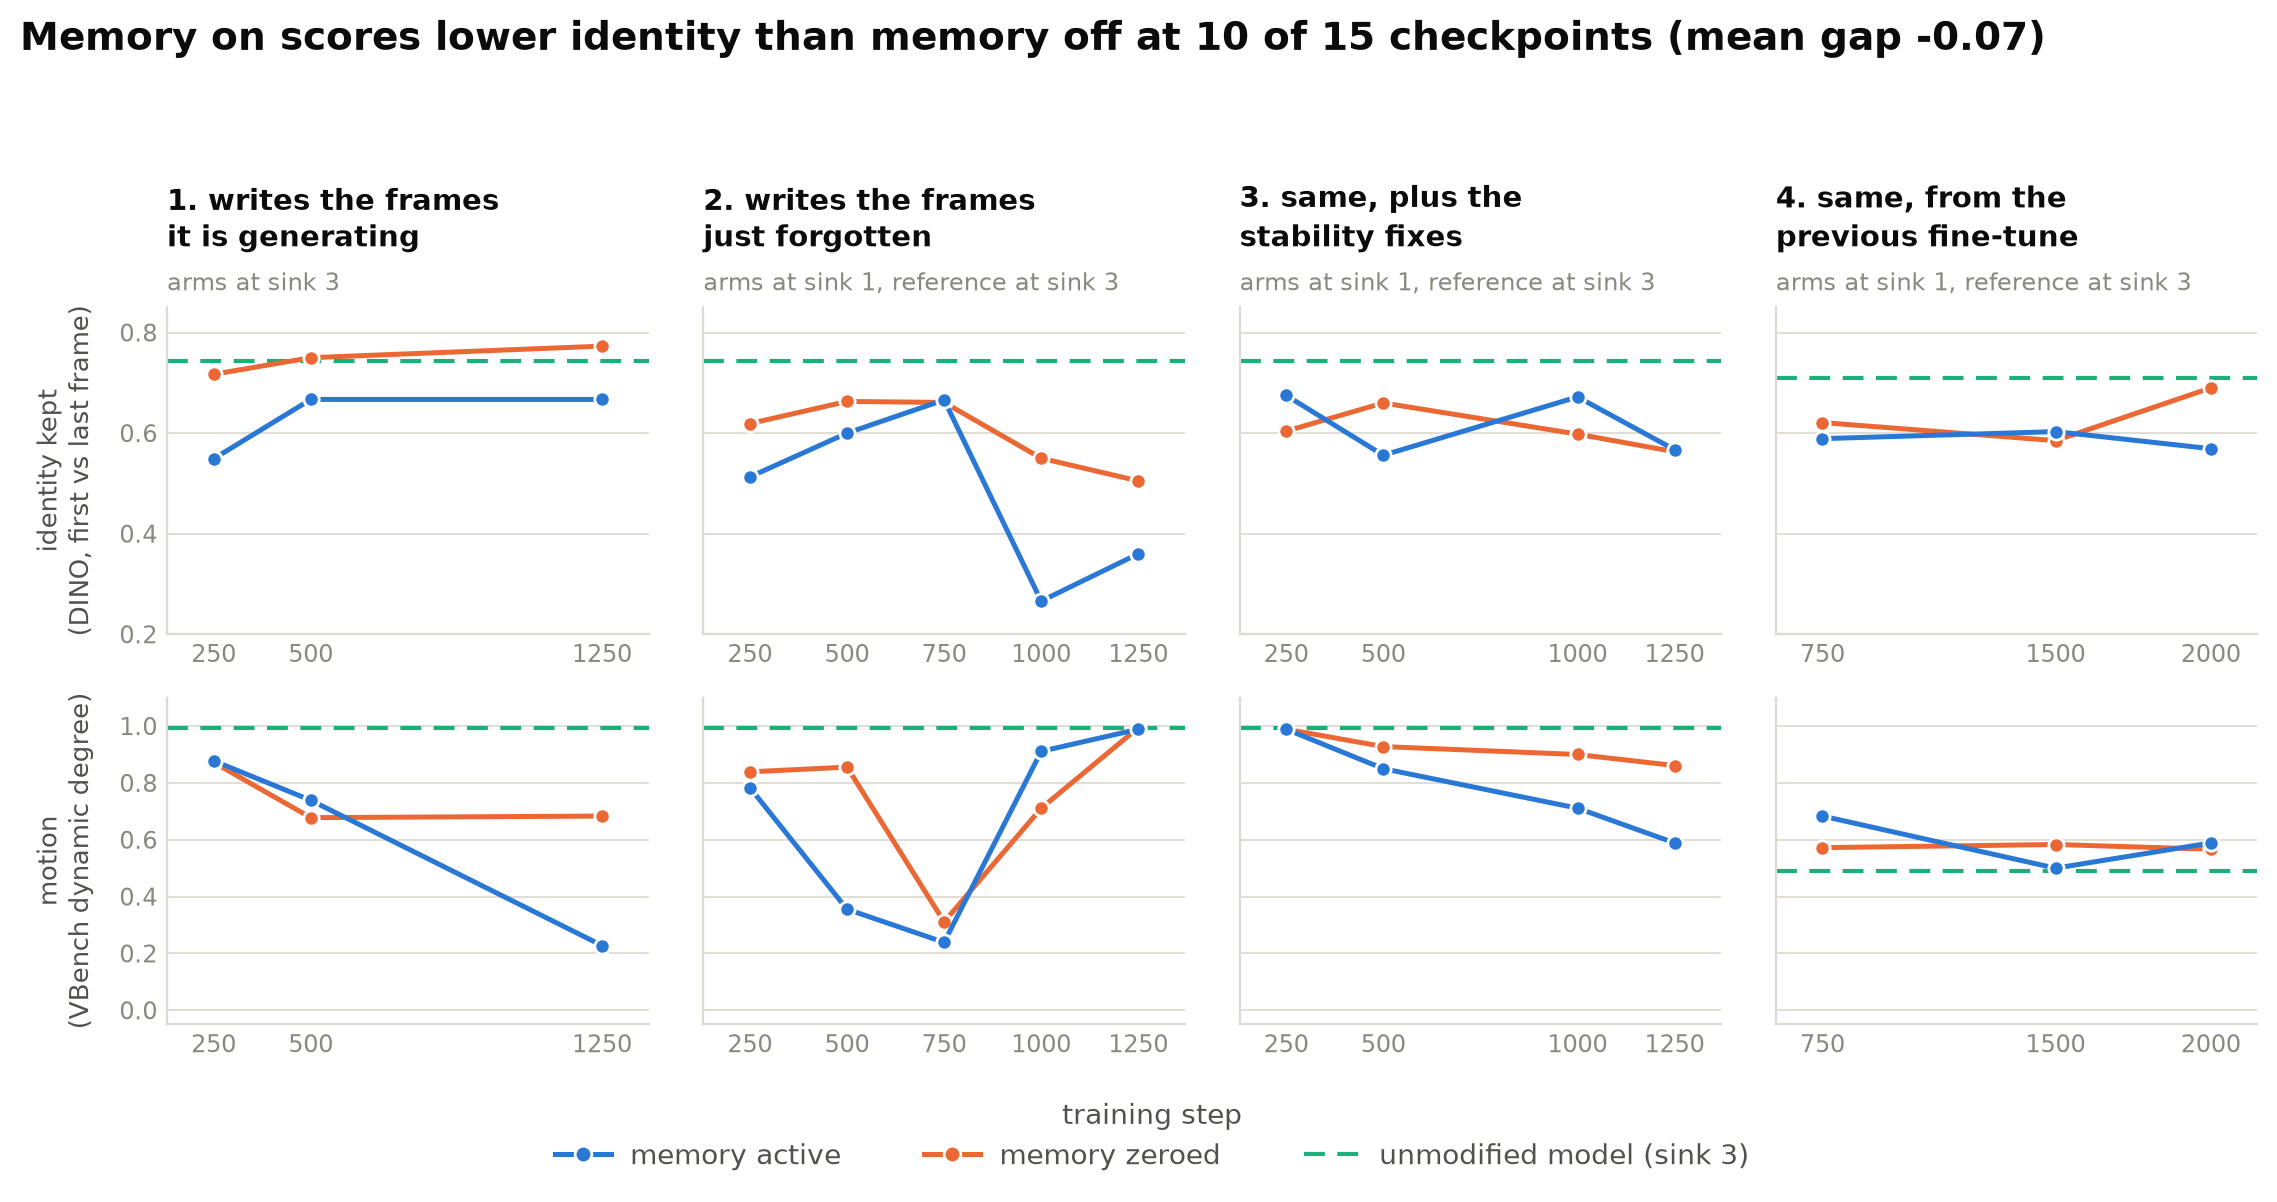
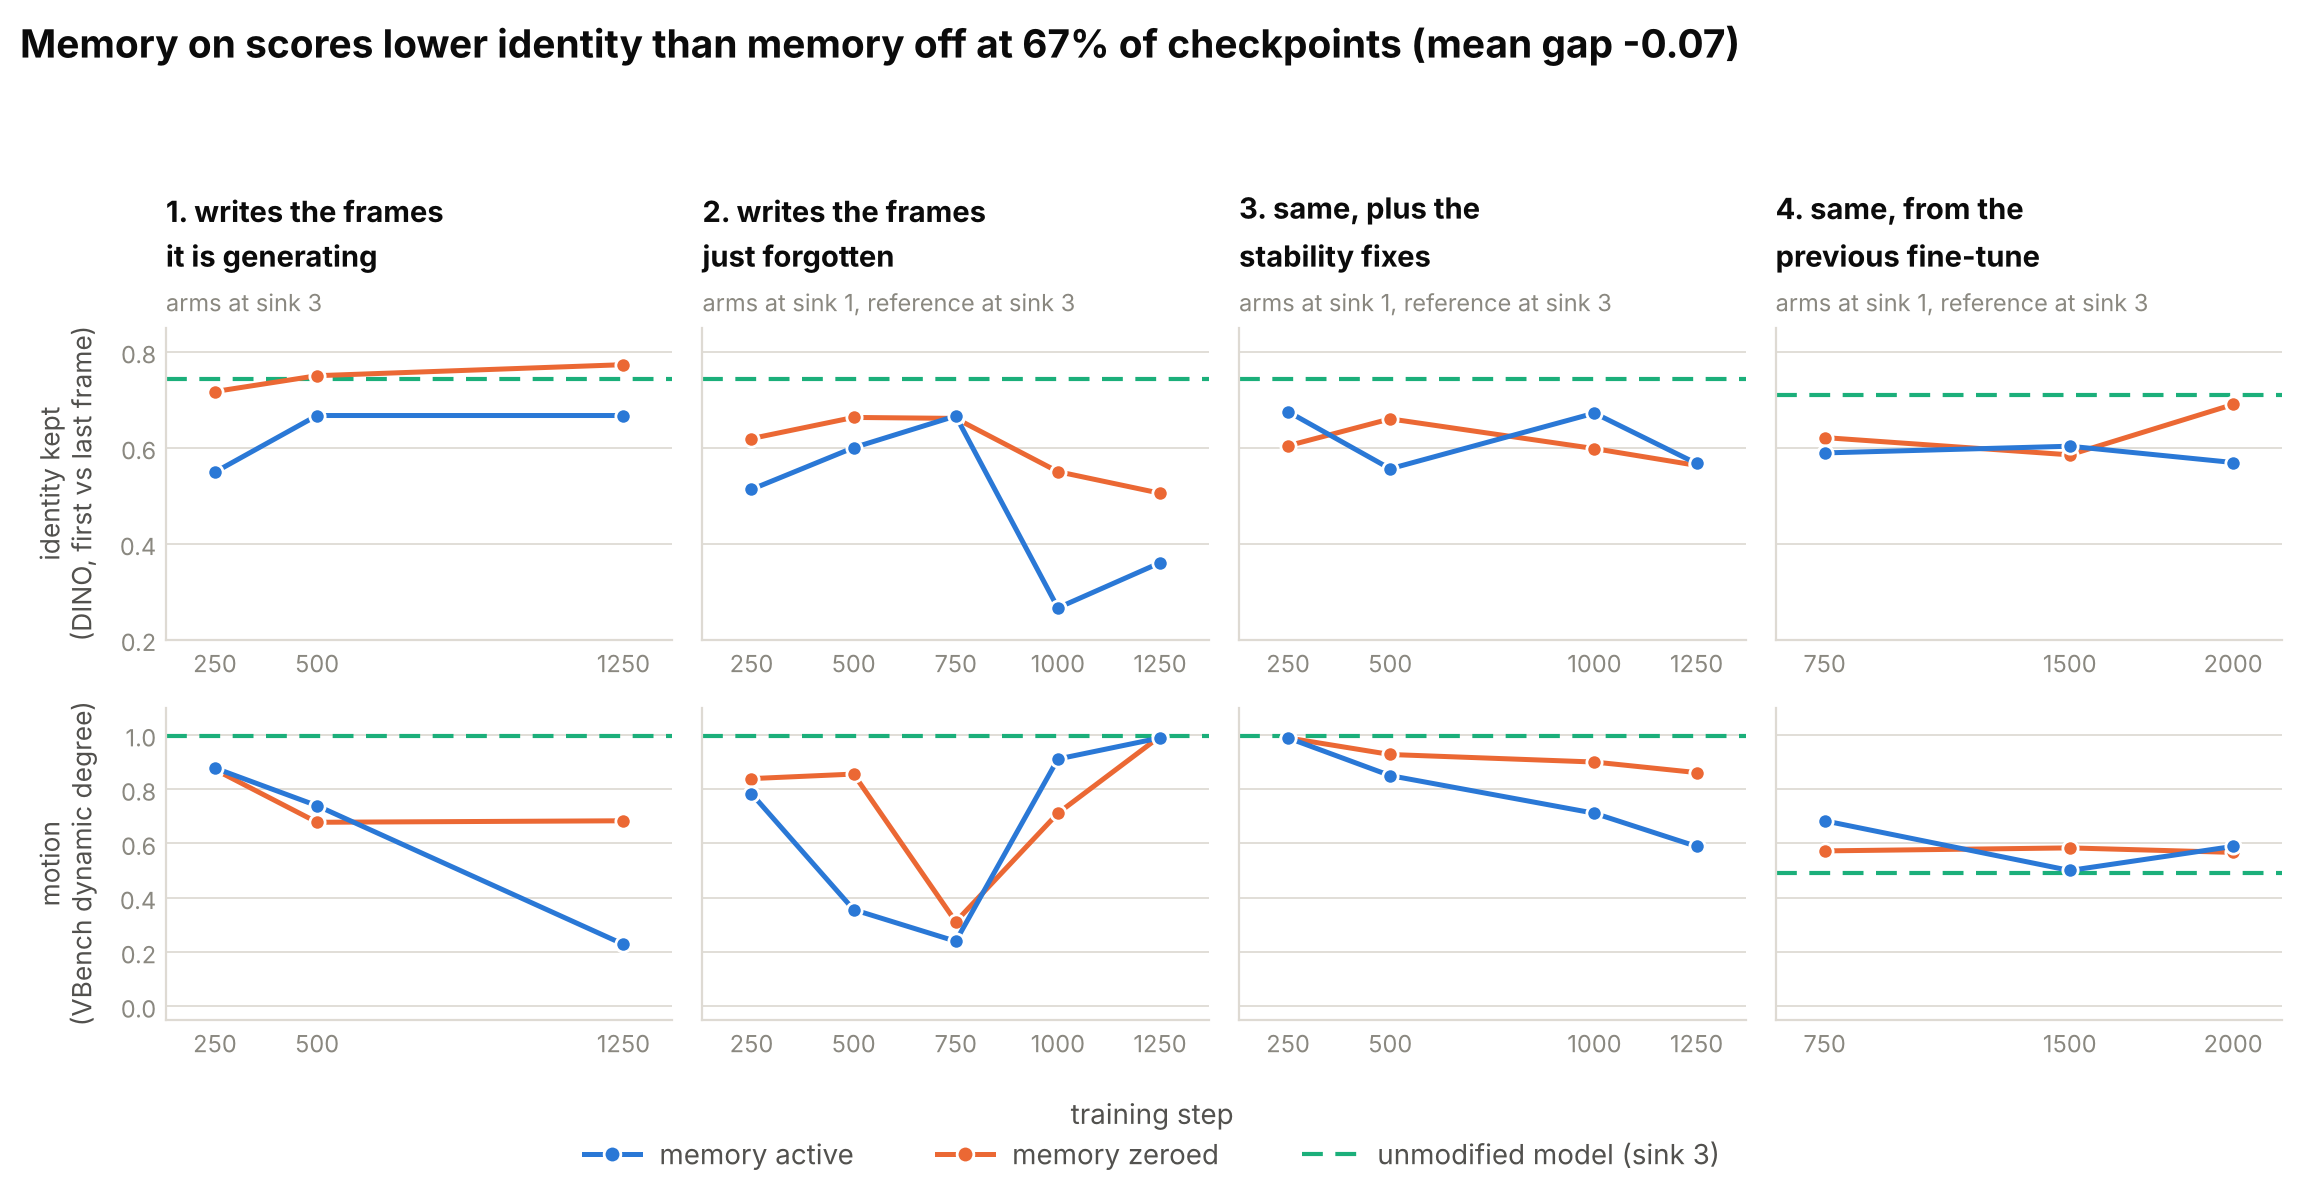
README and figure: shares instead of counts

diff --git a/scripts/make_figure.py b/scripts/make_figure.py
@@ -126,8 +126,8 @@ def draw(runs, path=os.path.join(ROOT, "assets", "motion_identity.png")):
 
     axes[0][0].set_ylim(0.20, 0.85)
     axes[1][0].set_ylim(-0.05, 1.10)
-    fig.suptitle(f"Memory on scores lower identity than memory off at {n_lower} of {len(gaps)} "
-                 f"checkpoints (mean gap {sum(gaps) / len(gaps):+.2f})",
+    fig.suptitle(f"Memory on scores lower identity than memory off at {n_lower / len(gaps):.0%} "
+                 f"of checkpoints (mean gap {sum(gaps) / len(gaps):+.2f})",
                  fontsize=14, color=INK, fontweight="bold", x=0.012, ha="left", y=0.975)
     fig.text(0.5, 0.055, "training step", fontsize=10, color=INK2, ha="center")
     fig.legend(handles=[

diff --git a/README.md b/README.md
@@ -65,8 +65,8 @@ are plain DMD; the twin is there to be read, not to explain the figure.
 
 ![motion vs identity](assets/motion_identity.png)
 
-- The memory does not help: with it active, identity is lower than with it zeroed at 10 of the
-  15 checkpoints, by 0.07 on average.
+- The memory does not help: with it active, identity is lower than with it zeroed at two thirds of
+  the checkpoints, by 0.07 on average.
 - Training costs motion, memory or not: in runs 1 to 3 both arms fall under the motion reference.
 - One lead is open: a training-free delta write rule reads the subject out of the state where
   the deployed rule does not.
@@ -75,8 +75,8 @@ One column per training run, identity on top, motion below, against the training
 dashed line is that run's own unmodified model. The four share everything except what their
 titles name: same frozen backbone, same LoRA co-training, and the same objective, plain DMD
 distillation with every extra loss term in the codebase weighted zero. Run 4 differs from run 3
-by one line of config, the fine-tune it starts from, which is why its reference sits lower. Six
-prompts per point, one seed, no repeat, so there is no noise estimate. One point per step; EMA
+by one line of config, the fine-tune it starts from, which is why its reference sits lower. No
+measurement was repeated, so there is no noise estimate. One point per step; EMA
 and 480-frame evaluations are left out, and where a step was evaluated at two sink sizes the
 sink-1 measurement is the one drawn.
 
@@ -92,10 +92,9 @@ collapsed to 0.36. In run 1, the one fair comparison to the reference, the only 
 above it on identity is the memory-zeroed one (0.773 against 0.743), with a third fewer clips
 rated dynamic; with the memory active identity is 0.667 and dynamic degree 0.23, a near-frozen
 video. Run 4 keeps more motion than its reference, and the memory still lowers identity there at
-two checkpoints out of three.
+most checkpoints.
 
-The likely reason, for this write rule, this objective and this backbone, which is all that
-was tested: chunk-local DMD and the usual metrics reward the same thing, temporal
+The likely reason, for this write rule, this objective and this backbone: chunk-local DMD and the usual metrics reward the same thing, temporal
 self-similarity, so a learnable memory converges to a freeze or to a constant-bias degeneracy
 that the dashboard scores as healthy. The frozen checkpoints show it: run 1 at step 1250 and
 run 2 at step 750 have a dynamic degree of 0.23 and 0.24, and VBench rates their subject
@@ -107,14 +106,13 @@ of A's first appearance, real or decoded from the memory state. Controls matter 
 taken from a different video helps as much as the right one, which is how the apparent gain
 turned out never to have been content-driven.
 
-The open lead in numbers: median 13.5/19 for the delta rule against 7.0 for the deployed one, over
-10 seeds, with a background control at chance. The score counts, out of 19 video pairs with a
-clearly distinct subject, how many the state tells apart in a two-way choice, so chance is 9.5; it
-is read offline from replayed states (`write_only` and `replay_writes` in
-`wan/modules/video_memory.py` are that replay's interface). The two distributions barely overlap (11
-to 16 against 6 to 10), but the delta rule's median sits just under the 14/19 a single seed needs to
-be significant. The probe scripts ran on the training cluster and are not in this repository, so
-these numbers cannot be reproduced from here.
+The open lead: given pairs of videos with clearly distinct subjects, the state written by the
+delta rule tells them apart in a two-way choice more often than chance, while the deployed rule
+and a background control stay at chance. The score is read offline from replayed states
+(`write_only` and `replay_writes` in `wan/modules/video_memory.py` are that replay's interface).
+Across seeds the two distributions barely overlap, but the delta rule's median sits just under
+the level a single seed needs to be significant. The probe scripts ran on the training cluster
+and are not in this repository, so this result cannot be reproduced from here.
 
 ## Running it
 
